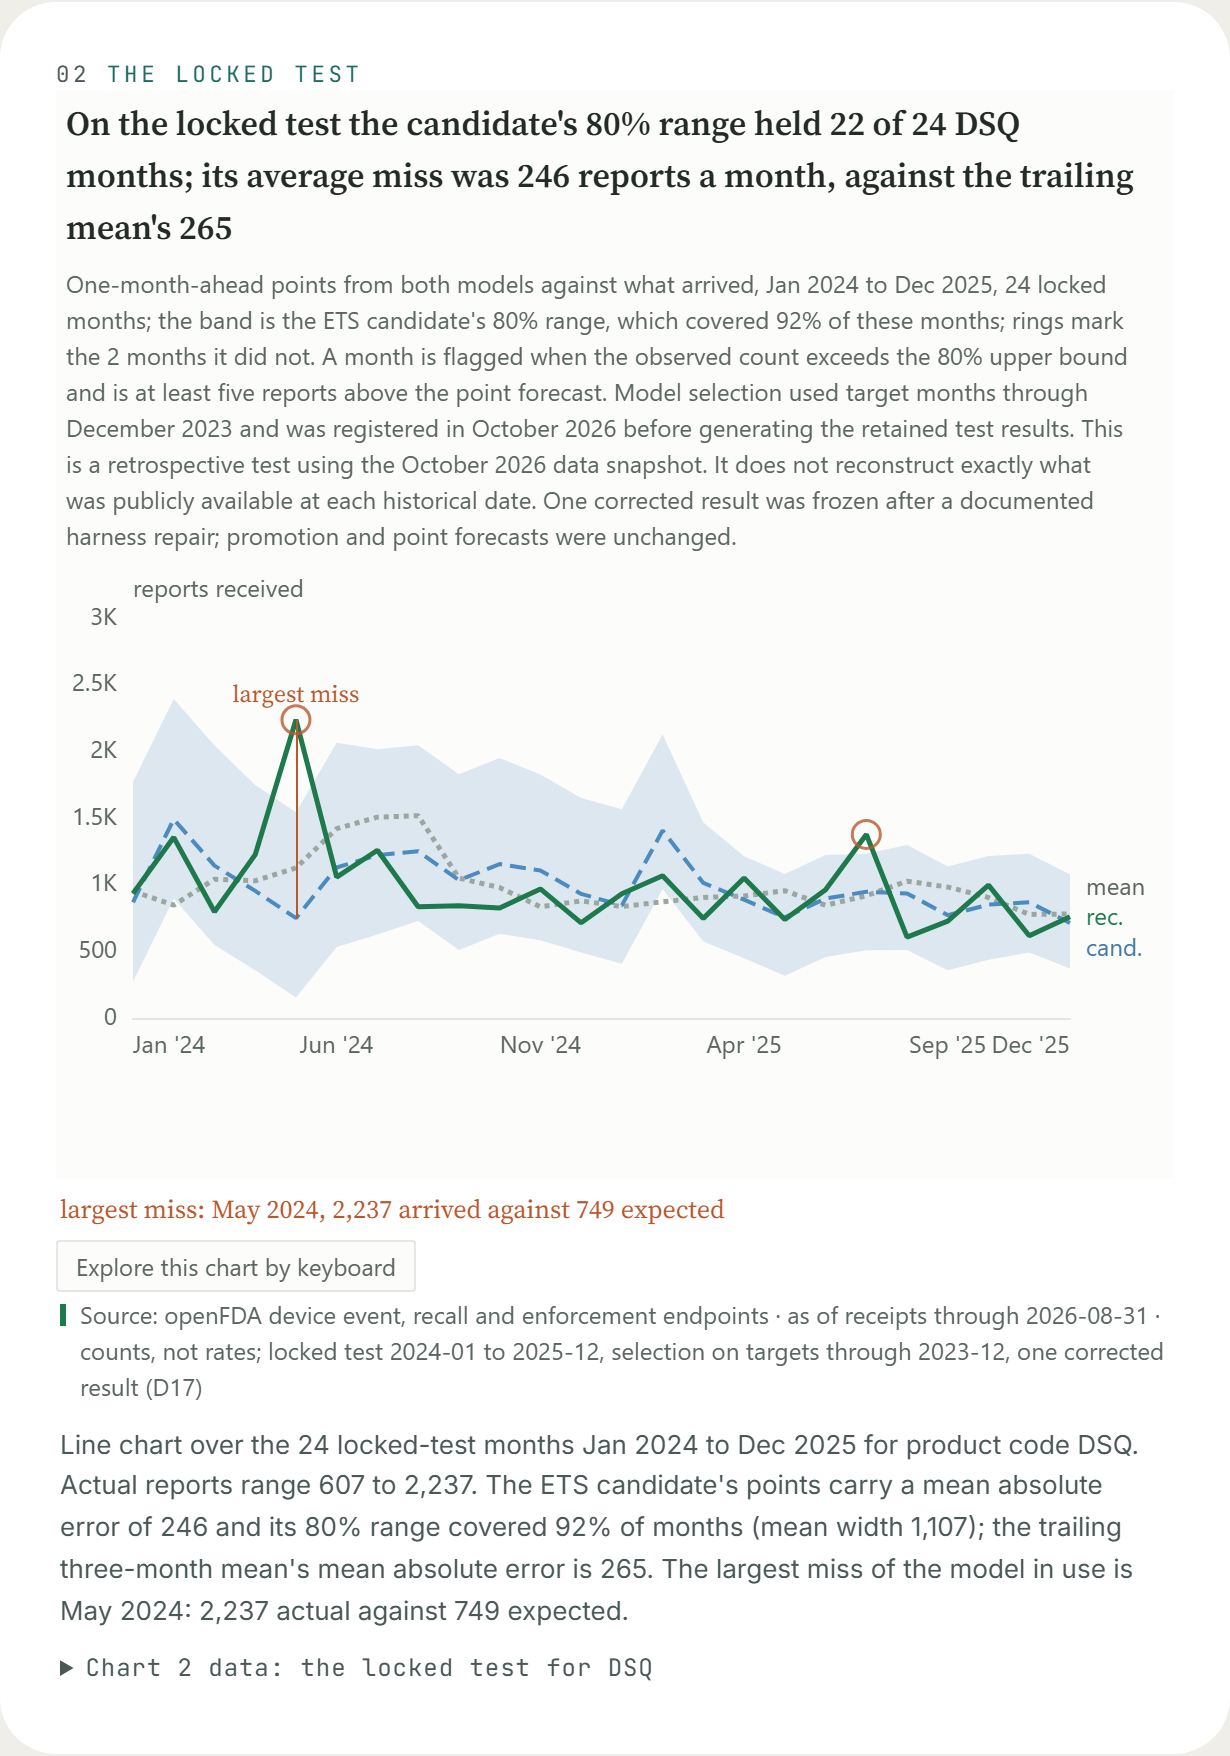
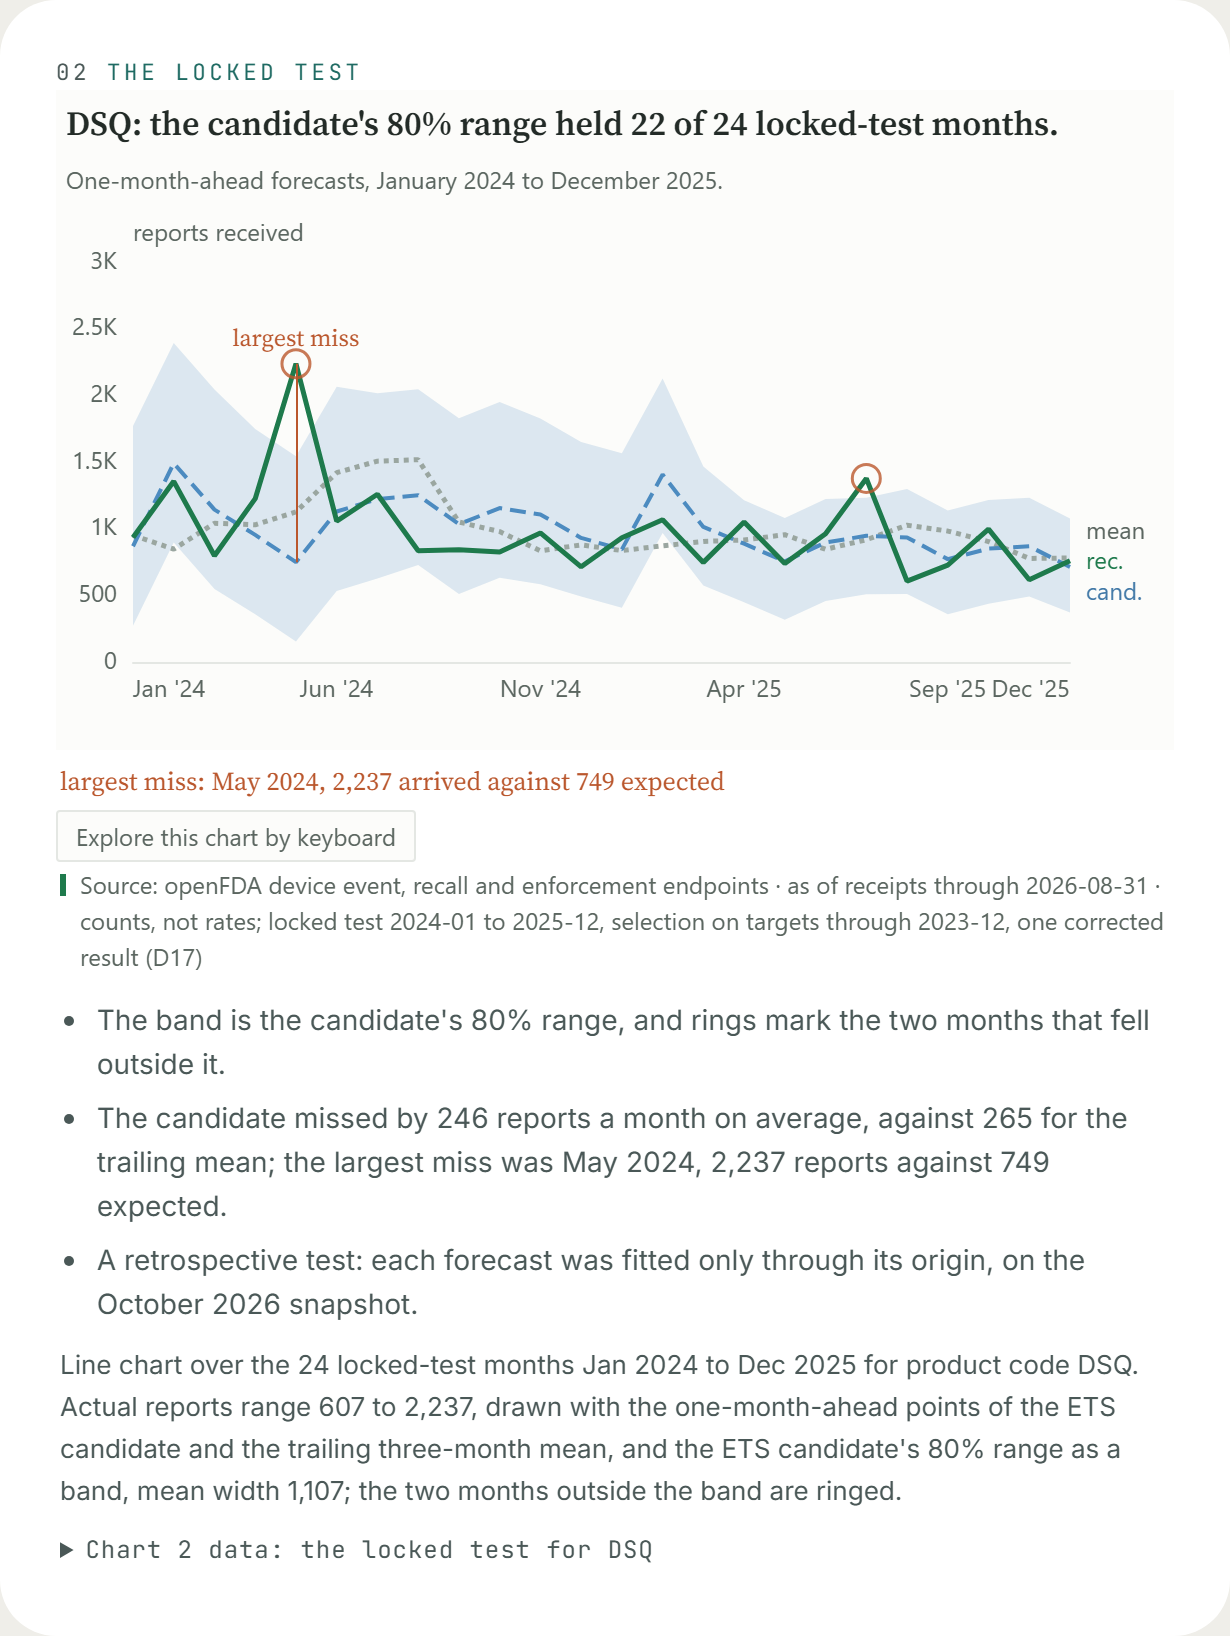
Step 10: D20, the chart review's text revision, and the renders
- governance/decision-record.md D20: Aaron's decisions of 2026-10-07, the
  third review, what each step changed by commit, where the pages depart
  from Felix's strings, what the brief got wrong, and two items open for
  Aaron (text-ink/60 row labels under AA; chart 4's lane order declared
  under the canvas, not in the subtitle).
- governance/chart-review.md section 8: a dated revision note for all five
  charts' text, with Checklist A re-run for the rows that changed and the
  verdicts restated; per CLAUDE.md, the gate and a link, no new panel.
- src/render_charts.py captures, at 320 and 1040, any table named with
  --tables (its details opened) and the case study's card with --card.
- docs/renders: both K6 ladders re-run (320, 655, 656, 1040; no
  overflow, every chart drawn, three strip segments, no console error),
  plus the outlook, scores and chart 4 tables, the results table and the
  card.

run.ps1 all passed (validate, build, validate: 21 checks, 46 of 46
scenarios tripped, 4 of 4 controls passed, freeze intact); the hook
matrix behaved as declared in 50 of 50 cases; git diff --stat e615fb4 --
data/ prints nothing.

diff --git a/src/render_charts.py b/src/render_charts.py
@@ -23,6 +23,12 @@ any width overflows horizontally or a chart fails to draw.
     python src/render_charts.py --page case-study.html --charts c3
                                            # a second page: its own K6 ladder, its own
                                            # chart list, renders under docs/renders/case-study/
+    python src/render_charts.py --tables tbl-outlook,tbl-scores,tbl-c4
+                                           # also each named table, its details opened, as
+                                           # table-<id>-<width>.png at 320 and 1040 only
+    python src/render_charts.py --page case-study.html --charts c3 --card
+                                           # also the case study's card as card-<width>.png,
+                                           # at 320 and 1040 only (Build Brief 2.2 step 10)
 """
 import json
 import pathlib
@@ -86,6 +92,14 @@ def main():
         i = argv.index("--charts")
         charts = argv[i + 1].split(",")
         argv = argv[:i] + argv[i + 2:]
+    tables, want_card = [], False
+    if "--tables" in argv:
+        i = argv.index("--tables")
+        tables = argv[i + 1].split(",")
+        argv = argv[:i] + argv[i + 2:]
+    if "--card" in argv:
+        want_card = True
+        argv.remove("--card")
     url = URL + page_name
     if "--out" in argv:
         i = argv.index("--out")
@@ -133,6 +147,25 @@ def main():
                 # the page a reader loads is unchanged.
                 target.screenshot(path=str(out_dir / ("%s-%d.png" % (cid, width))),
                                   style="#site-header{position:static !important}")
+            # The named tables and the card, at the narrowest and the design width only. A table's details is
+            # opened for the shot, which is the state the reader asks for; the cue is then re-measured by page.js.
+            if width in (NARROW_WIDTH, DESIGN_WIDTH):
+                for tid in tables:
+                    block = page.locator('[data-table-block="%s"]' % tid)
+                    if not block.count():
+                        draw_failures.append((width, "table " + tid))
+                        continue
+                    page.evaluate("(id) => { const d = document.querySelector('[data-table-block=\"' + id + '\"]').closest('details'); "
+                                  "if (d) d.open = true; }", tid)
+                    page.wait_for_timeout(250)
+                    block.screenshot(path=str(out_dir / ("table-%s-%d.png" % (tid, width))),
+                                     style="#site-header{position:static !important}")
+                if want_card:
+                    c = page.locator('[data-case="card"]')
+                    if not c.count():
+                        draw_failures.append((width, "card"))
+                    else:
+                        c.screenshot(path=str(out_dir / ("card-%d.png" % width)))
             seg = page.evaluate(
                 """() => Array.from(document.querySelectorAll('.cascadia-provenance'))
                         .map(n => n.textContent.split(' \\u00b7 ').length)""")

diff --git a/governance/chart-review.md b/governance/chart-review.md
@@ -1081,3 +1081,116 @@ re-run. The K6 ladders of both pages were re-run (no overflow, every chart
 drawn, three strip segments); re-rendering also moves every card's pixels
 slightly between runs without any visible change, which is why all twenty
 module renders are new files.
+
+---
+
+## 8 · Revision of 2026-10-07: every chart's text cut (Build Brief 2.2, D20)
+
+*All five charts, on both pages. **No mark, no data and no annotation
+changed**. Two layout changes: charts 2 and 5 lose an empty 36 px band under
+their x-axis, and chart 4's key moved out of `page.js`. What changed is the
+text each chart carries. Per this document's opening and the repository's
+`CLAUDE.md`, a revision gets the gate and a link, not a new panel. Below,
+Checklist A is re-run for the rows whose result or evidence changed, the K6
+ladders are re-derived, and the verdicts are restated. The links are
+commits `7d283f2` (the text), `6bb4dd3` (the gates that hold it) and
+`39c25b3` (corrections from an adversarial review of both).*
+
+**The pattern, every chart.** Each chart now carries:
+- a finding title meant to sit on one line at the design width;
+- a canvas subtitle of period and horizon only, one sentence of 7 to 15
+  words, gated by `check_chart_subtitles`;
+- two or three one-sentence bullets in HTML under the provenance strip,
+  gated by `check_chart_bullets`.
+
+What the old subtitles carried moved to the bullets, the data tables'
+titles and section 05 of the module. The DOM summaries of charts 1, 2 and 5
+are shorter and no longer repeat the bullets. Chart 4's summary gives Class
+I initiations by code, not their dates (`check_c4_summary_dates`).
+
+**What changed, by chart.**
+- **Chart 1.** "DSQ: expect about 736 reports in November 2026, 80% range
+  376 to 906." over "January 2022 to August 2026; one-month-ahead ranges
+  from January 2024; November 2026, three months ahead." The horizon
+  coverage (20 of 22), September's elapsed-period status and the twenty
+  dots' derivation are the three bullets. **Finding 4's fix (section 0)**,
+  the device name beside the code, moves from the subtitle to the first
+  bullet. **Revision panel row 10 (section 6.0)**, "the count is in the
+  subtitle and summary": the count of twenty is now in the third bullet and
+  the summary.
+- **Chart 2.** "DSQ: the candidate's 80% range held 22 of 24 locked-test
+  months." The mean absolute errors and the largest miss leave the title
+  for the second bullet. The chronology sentences and the review rule leave
+  the subtitle; they are in section 05, and the strip still flags the
+  locked span, the selection cut-off and D17.
+- **Chart 3.** Build Brief 2.2's wording, with "Three", "seven", "24" and
+  the thresholds generated: "Three of seven codes fall below the coverage
+  floor for automated review." The bullets are Coverage, Thresholds and
+  Models. In the Thresholds bullet ". Both" reads "; both", so the bullet
+  is one sentence.
+- **Chart 4.** "One episode where the rule is on, and seven if it ran in
+  every code." The claim is the one section 6 reviewed, now in fewer words.
+  The bullets are the retrospective eligibility, the 22 of 30 flagged
+  months in rule-off lanes, and the recall association ("queue episode";
+  association only). The key is one sentence and now also declares the
+  lane order.
+  - **Panel row 30 (section 0)** rested on the subtitle saying the rule is
+    one-sided. The key now says "a month flagged above its range", and
+    section 05 says "The rule is one-sided by design".
+- **Chart 5.** "Within three months, May 2026 had 577 DSQ reports against
+  680 for May 2025." The filling windows, the like-for-like line and the
+  reports without an event date are the bullets.
+
+**Widths reached (K6):** re-derived on both pages by `src/render_charts.py`.
+On the module every chart's host crosses the 560 px breakpoint between
+viewports 655 and 656, and on the case study chart 3's does the same, so
+both ladders are 320, 655, 656 and 1040. They are recorded in
+`docs/renders/k6-ladder.json` and `docs/renders/case-study/k6-ladder.json`.
+At every width on both pages: no horizontal overflow, every chart drawn, no
+console error. New this revision, at 320 and 1040 only:
+- the three wide tables, opened: `docs/renders/table-tbl-outlook-*.png`,
+  `table-tbl-scores-*.png` and `table-tbl-c4-*.png`;
+- the case study's results table:
+  `docs/renders/case-study/table-case-results-*.png`;
+- the case study's card: `docs/renders/case-study/card-*.png`.
+
+**K5:** three strip segments at every width of both ladders, counted from
+the render. **K7, re-run: PASS.** Both pages load `felix.css` 6b1ee5dc9b,
+`page.js` 54dab665d8, `cascadia-echarts-theme.js` fe48511d43,
+`echarts.min.js` 334d8b37c4 and `favicon.svg` 9f2fe5d980, each the md5 of
+the file's bytes. **K8:** unchanged, PASS, with the same open item.
+
+### 8.1 · Checklist A, the rows whose result or evidence changed
+
+| Check | C1 outlook | C2 locked test | C3 coverage | C4 review timeline | C5 lag-matched |
+|---|---|---|---|---|---|
+| 1.4 causal disclaimer | n/a | n/a | n/a | **PASS**: the title makes no recall claim; the third bullet says "association only, not validation" and the strip "counts and dates, not rates or risk" | n/a |
+| 2.7 sort | time | time | descending by coverage | lanes with the rule on first, each group by flagged months: **PASS**, the order is declared, in the key directly under the canvas rather than the subtitle, which this brief limited to period and horizon. Recorded here because the check's text places the declaration in the subtitle and F-15 put it there; its FAIL is for alphabetical or arbitrary order, and this is neither | time |
+| 3.1 finding title, top | "DSQ: expect about 736 reports in November 2026, 80% range 376 to 906." | "DSQ: the candidate's 80% range held 22 of 24 locked-test months." | "Three of seven codes fall below the coverage floor for automated review." | "One episode where the rule is on, and seven if it ran in every code." | "Within three months, May 2026 had 577 DSQ reports against 680 for May 2025." |
+| 3.2 title readable from the plot | the point tick and the filled dots, as in 6.1; **PASS-BY-EXCEPTION** for the exact figures, carried by the outlook table and chart 1's table. The basis the subtitle names is the forecast and its horizon ("November 2026, three months ahead"). The range's derivation (twenty outcomes from the 36 latest three-month-ahead errors) moved from the subtitle to the third bullet, directly under the canvas. **That is a narrowing of the exception's letter, recorded for Aaron** | **PASS**: 24 months on the axis, two ringed outside the band, so 22 inside, countable; the title no longer carries the mean absolute errors | **PASS**: seven bars, three in Madrona to the left of the dashed line labelled "rule disabled below 70%" | **PASS**, as 6.1: the one filled bar among the four lanes without "rule off", and six outlined bars in the rule-off lanes | **PASS**: both months marked on the 3-month line with their values (F-18) |
+| 3.4 annotation | unchanged | unchanged | unchanged | unchanged; it names the one episode the title counts | unchanged |
+| 3.6 direct labels | unchanged | unchanged | unchanged | lane labels; one key sentence under the plot naming the marks, which cannot each carry a label, and the lane order | unchanged |
+| 4.3 travels alone | the subtitle states both horizons and the strip "Nov 2026 is three months ahead" | the strip's locked span, selection cut-off and D17 | unchanged | the strip; the association sentence is now a bullet, and the title no longer makes the claim it qualified | unchanged |
+| 5.1 three layers | summary, two tables, navigator | summary, table, navigator | summary, table; shape in the summary | summary, table, navigator | summary, table, navigator |
+| 5.2 L1 to L3 | type, span, range, latest, the outlook's figures | type, span, range, series, band, ringed months | unchanged | type, counts per lane; the dates are in the table only | type, span, ranges, the filling months |
+| K2 every figure from a query | unchanged; the subtitle's band start is the first drawn point | unchanged | the bullets' 24, 60% to 95% and 70% from `forecast_score.csv`, the one constant citing gate G5 (6.4) and `review.py` | unchanged; the bullets from `review_workload.csv`, `recall_count.json` and `review.py` | unchanged |
+| K6 widths | 320, 655, 656, 1040 | same | same; the case study's ladder is the same four | same | same |
+
+### 8.2 · Verdicts, restated
+
+```
+CASCADIA CHART REVIEW v2.8 - text revision of 2026-10-07 (Build Brief 2.2) - all five charts
+Widths reached (K6): 320, 655, 656, 1040 on both pages (crossing at 656, host 560)
+Once per publish (K7, K8): PASS - 2026-10-07
+Reading panel (7.4): none for this revision (marks and data unchanged); sections 0 and 6.0 stand
+C1  INVARIANTS: all PASS; 3.2 PASS-BY-EXCEPTION (basis narrowed, recorded above)
+    PREFERENCES: 5.5 failed (5), as 6.1      INVARIANT FAILURES: 0    PREFERENCE SCORE: 5
+C2  INVARIANTS: all PASS; 2.3.6 PASS-BY-EXCEPTION, as section 2
+    PREFERENCES: none failed                 INVARIANT FAILURES: 0    PREFERENCE SCORE: 0
+C3  INVARIANTS: all PASS      PREFERENCES: none failed     INVARIANT FAILURES: 0    PREFERENCE SCORE: 0
+C4  INVARIANTS: all PASS      PREFERENCES: none failed (2.7 declared under the canvas, recorded above)
+                                                           INVARIANT FAILURES: 0    PREFERENCE SCORE: 0
+C5  INVARIANTS: all PASS; 2.3.6 PASS-BY-EXCEPTION, as section 2
+    PREFERENCES: none failed                 INVARIANT FAILURES: 0    PREFERENCE SCORE: 0
+VERDICT: SHIP, each chart as its previous verdict stands, with the two judgments above for Aaron
+```

diff --git a/governance/decision-record.md b/governance/decision-record.md
@@ -497,3 +497,132 @@ tags; the cohort-facts, names and em-dash gates read it as they read the
 module; Path 2 compares its data block. The site's old URL becomes a redirect
 stub in a later brief, written in the site repository, not here.
 
+
+---
+
+*Layer 4, 2026-10-07: a presentation pass on both pages, Build Brief 2.2.*
+
+## D20 · One action on the case study, chart text cut to a finding and three bullets, table titles above their tables
+
+Aaron's notes on the Build 2.1 pages and a third external review
+(Build21_Review_ChatGPT_2026-10-07), both checked by Cowork against disk,
+found three problems. The case study's own card diluted its purpose. Chart
+text ran to a paragraph inside the canvas (chart 4's subtitle was 222
+words). Two places still said "months the model never saw", and most data
+tables opened on a blank block. **Aaron's decisions, 2026-10-07:**
+- The case study makes the module unmistakable: one primary action in
+  Felix's lime spec-card pattern, headed "Forecast module", with no Owner
+  row and no method or repository links at the top.
+- The module hero's fifth tile is one clause.
+- The Horizon row and the remaining "never saw" wording are fixed.
+- Table titles stop producing the blank block.
+- Chart text is cut, not only bulleted, to a finding title, a one-line
+  subtitle and two or three bullets; the detail moves to the tables and
+  the method section.
+- The third review's wording is adopted where it supplies it.
+
+**Nothing the build computed changed.** The frozen tables, the locked test,
+the promotion, the review rule, the G5 band and floor, the cohort,
+`config/model.json` and the pre-registration are as committed, and
+`git diff --stat e615fb4 -- data/` prints nothing. What changed is what the
+pages say, how they are laid out, and what the gates check.
+
+**What each step changed.**
+- `e6a8a08` The case study's lead, verbatim, with "three of seven"
+  generated; the November outlook is the results table's first row.
+- `693f9c8` The card: "Forecast module", the supporting line verbatim, one
+  Felix 6.3 "Disc CTA, dark" labelled "Open forecast module" directly under
+  the heading, and three rows: receipts through, horizons and cohort.
+  Method and receipts and the build repository move to a links list at the
+  end of section 04. The closing invitation keeps one route, to the module.
+- `9706ffe` The test and its chronology in the brief's three sentences. The
+  calibration repair is stated once, in the experiment-history bullet;
+  section 02's heading drops "and the repair it needed".
+- `56b8a30` Section 03 becomes "Decisions and trade-offs": seven choices
+  from this record, each with what it cost, and one disclosure that Claude
+  Code implemented the approved plan and AI agents ran the simulated chart
+  reviews.
+- `6f796d8` Chart 3 on the case study is "Coverage by code", unnumbered. The
+  results table stacks below 640 px with explicit ARIA table roles. The
+  next test separates the shuffled-dates reference from prospective
+  scoring.
+- `afc9b08` The Horizon row (verbatim, two lines), the test heading
+  (verbatim), the opening question, and a one-clause fifth tile.
+- `5641ff9` Table titles. The blank block was the caption itself: set to
+  `display:block`, it stops being a caption and is wrapped in an anonymous
+  first-column cell under the header row. Every title is now a block above
+  its scrolling wrapper and names its table by `aria-labelledby`. A scroll
+  cue shows only where the wrapper scrolls.
+- `7d283f2` Chart text cut. Each chart has a one-line finding, a subtitle of
+  period and horizon only, and three one-sentence bullets under the
+  provenance strip. Chart 4's key is built with the page, no longer
+  composed in `page.js`.
+- `6bb4dd3` Four gates on chart text and the card, each with prove-failable
+  scenarios and an unmutated control.
+- `39c25b3` Corrections from an adversarial review of the nine steps
+  (workflow wf_85d0c97e-7aa: 36 findings, 33 confirmed in whole or in
+  part).
+  - Chart 4 and the fifth tile say "queue episode", because the chart also
+    draws outlined episodes that precede some initiations.
+  - Chart 4's title returns to the claim its annotation names.
+  - The case study's header loses its Repository button.
+  - The card's action keeps Felix's 44 px tap target.
+  - The gates read every list, key and date form.
+  - Several drafted sentences were made accurate.
+
+**Where the pages depart from Felix's strings, on the record (D14).** The
+card's action is the 6.3 "Disc CTA, dark" string with three utilities
+added:
+- `mt-4`, for spacing;
+- `min-h-11`, because Felix's own rule 10 asks 44 px of every tap target
+  and the 6.3 string draws 40 px;
+- `shrink-0` on its disc, so the disc stays round when the verbatim label
+  wraps in the 192 px a 320 px viewport leaves it.
+
+Its supporting line borrows the lime feature card's `text-ink/75` and adds
+`text-balance`. The case study's header drops its Repository button, so the
+card holds the page's one primary action at every width; the module's
+header keeps its button. No token changed.
+
+**What the brief got wrong, and what was done instead.**
+- The blank block's cause was not the scrolling wrapper. It was the caption
+  rule: `display:block` turns a caption into a cell. It affected 12 of the
+  module's 14 tables (not 13) and the case study's chart 3 table.
+- Chart 3's quoted "Thresholds" bullet is two sentences, and the same step
+  asks for one sentence per bullet. Its ". Both" renders as "; both", the
+  only change to the brief's words.
+- The brief's example fifth tile, "preceded by an episode", is false on this
+  page's own chart. It reads "preceded by a queue episode".
+- "Felix Fee Examiner style" is not a Felix pattern. It is the Links section
+  of the site's Fee Examiner case study, which section 04's links list
+  follows.
+- The brief's step 2 did not reach the case study's header, which put a
+  repository button styled as a primary action at the top of every viewport
+  768 px and wider.
+
+*Counterfactual:* the alternative was to bullet the long subtitles without
+cutting them. That would have moved the wall of text below the chart
+instead of out of it. Overriding only the caption's display would have
+removed the blank block but let a wide table's title scroll away with it.
+
+**Open, for Aaron.**
+- The row labels on both lime cards and in the module's section 05
+  decision list are `text-ink/60` at 0.7rem. They measure 4.16:1 on lime
+  and 4.49:1 on white, both under AA. The string predates this pass, and
+  D14's 6a substitution covers `muted`, not this string, so widening 6a is
+  his call.
+- Chart 4's lane order is stated in its key under the canvas rather than in
+  the subtitle, which VIZ-PRINCIPLES 2.7 prefers and this brief limited to
+  period and horizon.
+
+**Carried by:**
+- `src/build_page.py`: `case_opening`, `case_description`, `case_test`,
+  `case_decisions`, `promotion_ratio`, `c3_card`, `chart_card`, `table`,
+  and the chart text in `chart1` to `chart5`.
+- `docs/template.html`; `docs/case-study-template.html`.
+- `docs/assets/page.js`: the scroll cues.
+- `src/validate.py`: `check_chart_subtitles`, `check_chart_bullets`,
+  `check_c4_summary_dates` and `check_case_card`, with their scenarios and
+  controls.
+- `src/render_charts.py`: the card and table renders.
+- `governance/chart-review.md`: section 8.
